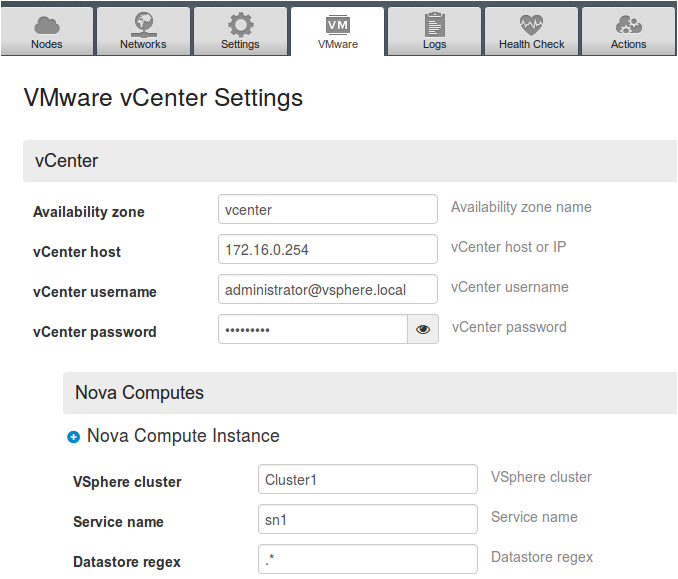
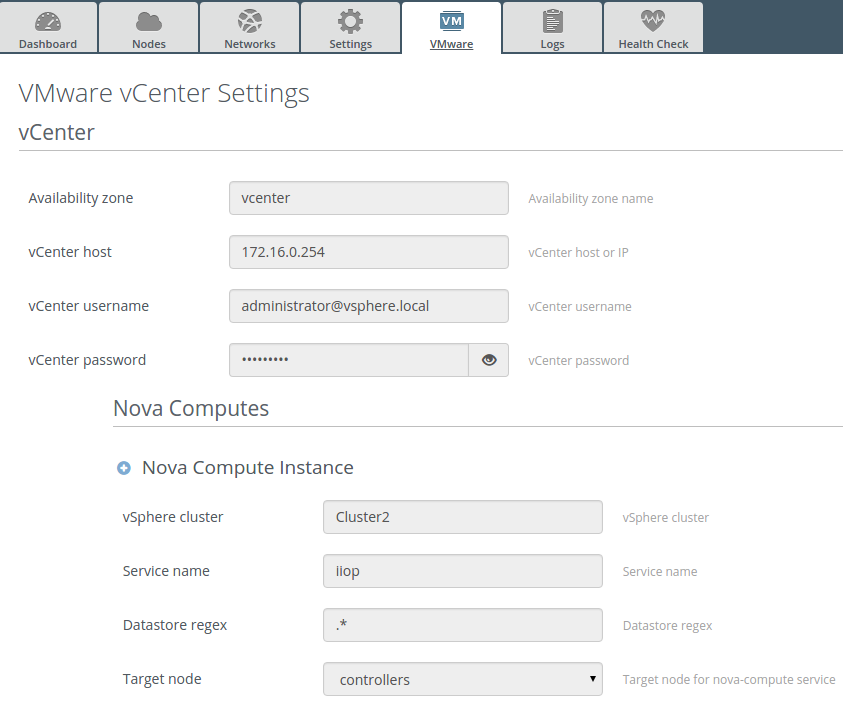
User guide update for 7.0
Closes #1505546: User guide is not updated for 7.0

diff --git a/docs/install_guide/vmware_dvs_install_guide.rst b/docs/install_guide/vmware_dvs_install_guide.rst
@@ -1,5 +1,5 @@
 *****************************************************
-Guide to the VMware DVS plugin version 1.0.1 for Fuel
+Guide to the VMware DVS plugin version 1.1.0 for Fuel
 *****************************************************
 
 .. raw:: pdf
@@ -11,7 +11,7 @@ Document purpose
 ----------------
 
 The purpose of this document is to describe how to install, configure
-and use the VMware DVS plugin 1.0.1 for Fuel 6.1.
+and use the VMware DVS plugin 1.1.0 for Fuel 7.0.
 
 Key terms, acronyms and abbreviation
 -------------------------------------
@@ -71,7 +71,7 @@ The plugin has the following requirements for software:
 
 ================  ===========
 **Requirement**   **Version**
- Fuel             6.1
+ Fuel             7.0
  vCenter          5.5
 ================  ===========
 
@@ -92,12 +92,12 @@ Installing the VMware DVS plugin
 Make sure that:
 
 * you have the installed the
-  `Fuel Master node <https://docs.mirantis.com/openstack/fuel/fuel-6.1/user-guide.html>`__
+  `Fuel Master node <https://docs.mirantis.com/openstack/fuel/fuel-7.0/user-guide.html>`__
 
 * all the nodes of your future environment are discovered and functional.
 
 * there is a connectivity to correctly configured vCenter with dvSwitch and clusters created. Please,
-  see the `Mirantis OpenStack Planning Guide <https://docs.mirantis.com/openstack/fuel/fuel-6.1/planning-guide.html#vcenter-plan>`_, `User Guide <https://docs.mirantis.com/openstack/fuel/fuel-6.1/user-guide.html#vmware-integration-notes>`_ and `this plugin's specification <https://github.com/openstack/fuel-plugin-vmware-dvs/blob/master/specs/fuel-plugin-vmware-dvs.rst>`_ for information on configuring vCenter.
+  see the `Mirantis OpenStack Planning Guide <https://docs.mirantis.com/openstack/fuel/fuel-7.0/planning-guide.html#vcenter-plan>`_, `User Guide <https://docs.mirantis.com/openstack/fuel/fuel-6.1/user-guide.html#vmware-integration-notes>`_ and `this plugin's specification <https://github.com/openstack/fuel-plugin-vmware-dvs/blob/master/specs/fuel-plugin-vmware-dvs.rst>`_ for information on configuring vCenter.
 
 #. Download the plugin from the
    `Fuel Plugin Catalog <https://www.mirantis.com/products/openstack-drivers-and-plugins/fuel-plugins/>`__.
@@ -105,14 +105,14 @@ Make sure that:
 #. Copy the plugin into Fuel Master node:
    ::
 
-      $ scp fuel-plugin-vmware-dvs-1.0-1.0.1-1.noarch.rpm <Fuel Master node ip>:/tmp
+      $ scp fuel-plugin-vmware-dvs-1.1-1.1.0-1.noarch.rpm <Fuel Master node ip>:/tmp
 
 #. Log into the Fuel Master node and install the plugin:
    ::
 
       $ ssh root@<Fuel Master node ip>
       [root@nailgun ~]# fuel plugins --install /
-      /tmp/fuel-plugin-vmware-dvs-1.01.0.11.noarch.rpm
+      /tmp/fuel-plugin-vmware-dvs-1.1-1.1.0-1.noarch.rpm
       [root@nailgun  ]# fuel plugins
       DEPRECATION WARNING: /etc/fuel/client/config.yaml exists and will
       be used as the source for settings. This behavior is deprecated.
@@ -122,7 +122,7 @@ Make sure that:
       +------+--------------------------+-----------+--------------------+
       | id   | name                     | version   | package\_version   |
       +------+--------------------------+-----------+--------------------+
-      | 2    | fuel-plugin-vmware-dvs   | 1.0.1     | 2.0.0              |
+      | 2    | fuel-plugin-vmware-dvs   | 1.1.0     | 3.0.0              |
       +------+--------------------------+-----------+--------------------+
 
 Removing the VMware DVS plugin
@@ -135,7 +135,7 @@ To uninstall VMware DVS plugin, follow these steps:
 #. Uninstall the plugin:
    ::
 
-      # fuel plugins --remove fuel-plugin-vmware-dvs--1.0.1
+      # fuel plugins --remove fuel-plugin-vmware-dvs--1.1.0
 
 #. Check if the plugin was uninstalled successfully:
    ::
@@ -153,7 +153,7 @@ Configuring VMware DVS plugin
 -----------------------------
 
 #. `Create a new OpenStack
-   environment <https://docs.mirantis.com/openstack/fuel/fuel-6.1/user-guide.html#create-a-new-openstack-environment>`_
+   environment <https://docs.mirantis.com/openstack/fuel/fuel-7.0/user-guide.html#create-a-new-openstack-environment>`_
    with Fuel UI wizard.
 
    .. image:: pics/create.png
@@ -168,11 +168,11 @@ Configuring VMware DVS plugin
    .. image:: pics/net.png
 
 #. Finish environment creation following
-   `documentation <https://docs.mirantis.com/openstack/fuel/fuel-6.1/user-guide.html#create-a-new-openstack-environment>`_.
+   `documentation <https://docs.mirantis.com/openstack/fuel/fuel-7.0/user-guide.html#create-a-new-openstack-environment>`_.
 
 #. `Add
-   <https://docs.mirantis.com/openstack/fuel/fuel-6.1/user-guide.html#configure-your-environment>`__
-   at least 1 Controller and 1 Compute node to the environment.
+   <https://docs.mirantis.com/openstack/fuel/fuel-7.0/user-guide.html#configure-your-environment>`__
+   at least 1 Controller and 1 Compute node to the environment. You can add 1 dedicated Compute VMware node.
 
 #. Open the *Settings* tab of the Fuel Web UI and scroll down the page. Select the
    *use Neutron VMware DVS ML2 plugin* checkbox and specify correct name of dvSwitch:
@@ -183,8 +183,12 @@ Configuring VMware DVS plugin
 
    .. image:: pics/vmware.png
 
+   If the dedicated Compute VMware node selected:
+
+   .. image:: pics/vmware2.png
+
 #. The rest of configuration is up to you.
-   See `Mirantis OpenStack User Guide <https://docs.mirantis.com/openstack/fuel/fuel-6.1/user-guide.html>`__
+   See `Mirantis OpenStack User Guide <https://docs.mirantis.com/openstack/fuel/fuel-7.0/user-guide.html>`__
    for instructions.
 
 #. Click *Deploy changes* button to finish.
